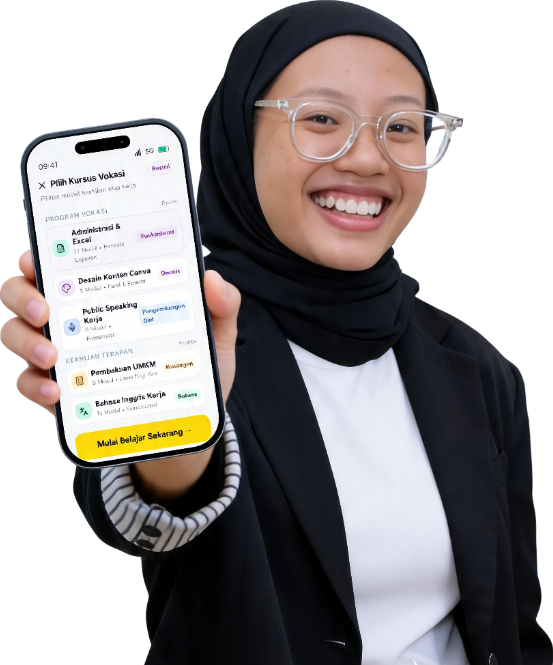
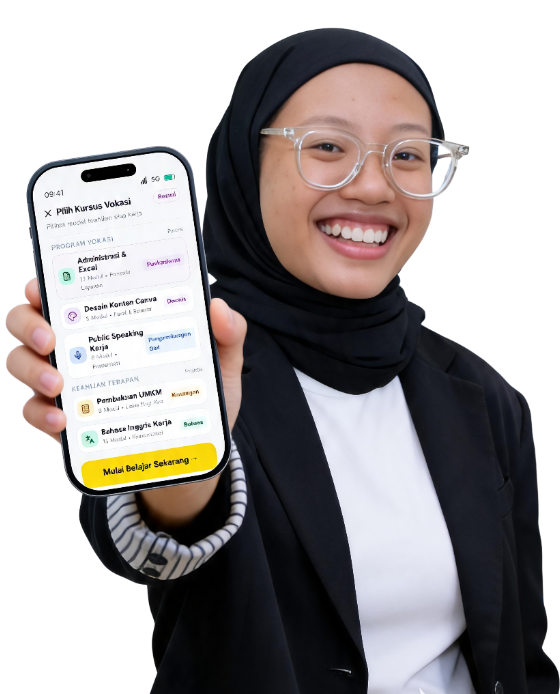
fix: sesuaikan proporsi gambar talent dan tambahkan ruang kepala agar tidak terpotong

diff --git a/src/app/page.tsx b/src/app/page.tsx
@@ -24,7 +24,7 @@ export default async function HomePage() {
           - Floating badges (Akses LMS 24 Jam & Server Kuis Otomatis) melayang rapi di samping HP
           - Call to Action Pill kuning ala Cakap dengan panah melingkar
          ========================================================================= */}
-      <section className="relative overflow-hidden bg-gradient-to-br from-[#4a136b] via-[#6d2797] to-[#380a52] text-white lg:h-[calc(100vh-80px)] lg:max-h-[580px] lg:min-h-[480px] flex items-center border-b border-purple-950/30 py-8 lg:py-0">
+      <section className="relative overflow-hidden bg-gradient-to-br from-[#4a136b] via-[#6d2797] to-[#380a52] text-white lg:h-[calc(100vh-80px)] lg:max-h-[620px] lg:min-h-[500px] flex items-center border-b border-purple-950/30 py-8 lg:py-4">
         {/* Ornamen Latar Belakang Geometris ala Cakap (Panah Pertumbuhan & Glow Halus) */}
         <div className="absolute top-0 right-0 w-full h-full overflow-hidden pointer-events-none select-none">
           {/* Panah Pertumbuhan Kompetensi di Kanan Atas */}
@@ -96,14 +96,14 @@ export default async function HomePage() {
             </div>
 
             {/* ================= KOLOM KANAN: Talent Asli Memegang Smartphone + Bubble Chat Badges ================= */}
-            <div className="lg:col-span-5 flex items-end justify-center relative">
+            <div className="lg:col-span-5 flex items-end justify-center relative lg:self-end">
               {/* Cincin Geometris Kuning Lembut di Belakang Talent */}
               <div className="absolute -bottom-10 -right-6 w-72 h-72 rounded-full border-[22px] border-[#ffdf0f]/20 pointer-events-none select-none z-0 hidden sm:block" />
 
               {/* Wrapper Talent & Bubble Chat Badges */}
               <div className="relative inline-block z-10">
                 {/* Bubble Chat iPhone 1: Akses LMS 24 Jam (Menyenggol Sisi Kiri Smartphone yang Dipegang Talent) */}
-                <div className="flex absolute -left-4 sm:-left-10 lg:-left-16 top-10 sm:top-14 z-30 bg-white/95 backdrop-blur-md rounded-2xl rounded-tr-xs p-2.5 sm:p-3 shadow-[0_12px_30px_rgba(0,0,0,0.22)] border border-purple-100/90 items-center gap-2.5 sm:gap-3 w-[170px] sm:w-[190px] hover:scale-105 transition-transform duration-200 group">
+                <div className="flex absolute -left-4 sm:-left-8 lg:-left-12 top-14 sm:top-16 lg:top-20 z-30 bg-white/95 backdrop-blur-md rounded-2xl rounded-tr-xs p-2.5 sm:p-3 shadow-[0_12px_30px_rgba(0,0,0,0.22)] border border-purple-100/90 items-center gap-2.5 sm:gap-3 w-[170px] sm:w-[190px] hover:scale-105 transition-transform duration-200 group">
                   <div className="w-8 h-8 rounded-full bg-purple-100 text-[#843bab] flex items-center justify-center shrink-0 shadow-xs">
                     <Laptop size={15} />
                   </div>
@@ -119,7 +119,7 @@ export default async function HomePage() {
                 </div>
 
                 {/* Bubble Chat iPhone 2: Server Kuis Otomatis (Menyenggol Sisi Kiri Bawah Smartphone yang Dipegang Talent) */}
-                <div className="flex absolute -left-2 sm:-left-8 lg:-left-14 bottom-14 sm:bottom-20 z-30 bg-white/95 backdrop-blur-md rounded-2xl rounded-tr-xs p-2.5 sm:p-3 shadow-[0_12px_30px_rgba(0,0,0,0.22)] border border-purple-100/90 items-center gap-2.5 sm:gap-3 w-[175px] sm:w-[195px] hover:scale-105 transition-transform duration-200 group">
+                <div className="flex absolute -left-2 sm:-left-6 lg:-left-10 bottom-10 sm:bottom-14 lg:bottom-16 z-30 bg-white/95 backdrop-blur-md rounded-2xl rounded-tr-xs p-2.5 sm:p-3 shadow-[0_12px_30px_rgba(0,0,0,0.22)] border border-purple-100/90 items-center gap-2.5 sm:gap-3 w-[175px] sm:w-[195px] hover:scale-105 transition-transform duration-200 group">
                   <div className="w-8 h-8 rounded-full bg-amber-100 text-amber-800 flex items-center justify-center shrink-0 shadow-xs">
                     <CheckCircle2 size={15} />
                   </div>
@@ -139,10 +139,10 @@ export default async function HomePage() {
                   <Image
                     src="/hero-talent.png"
                     alt="Talent Lembaga Kursus Pijar Aksara Menunjukkan Aplikasi Kursus di Smartphone"
-                    width={553}
-                    height={665}
+                    width={560}
+                    height={694}
                     priority
-                    className="w-auto h-[380px] sm:h-[450px] lg:h-[500px] xl:h-[530px] max-w-full object-contain object-bottom drop-shadow-[0_20px_35px_rgba(0,0,0,0.45)] pointer-events-none select-none transition-transform duration-300 hover:scale-[1.02]"
+                    className="w-auto h-[310px] sm:h-[370px] lg:h-[420px] xl:h-[450px] max-w-full object-contain object-bottom drop-shadow-[0_20px_35px_rgba(0,0,0,0.45)] pointer-events-none select-none transition-transform duration-300 hover:scale-[1.02]"
                   />
                 </div>
               </div>
